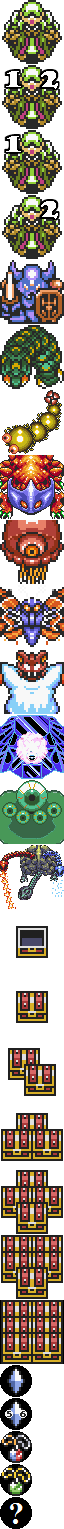
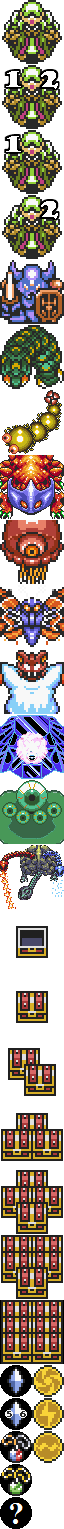
Add support for medallion for TR and MM.
- add the icons in the tracker
- use this info in the logic
- also fix the requierements for MM (needs boots or hookshot) and for TR
(need DW death mountain access)

Changed region(s): [[0.5, 0.8914, 1.0, 0.9836]]

diff --git a/js/script.js b/js/script.js
@@ -919,6 +919,18 @@ $(() => {
           ],
           type: 'bosses',
         };
+	if (i == 8 || i == 9)
+	{
+          this.items[`boss${i}medallion`] = {
+            values: [
+              'medallion-unknown',
+              'medallion-bombos',
+              'medallion-ether',
+              'medallion-quake',
+            ],
+            type: 'bosses',
+          };
+        }
         const dungeonChests = {
           values: [],
           type: 'bosses',
@@ -1002,7 +1014,7 @@ $(() => {
       }
       div.removeClass(item);
 
-      if (item.endsWith('reward') || item.endsWith('chest')) {
+      if (item.endsWith('reward') || item.endsWith('chest') || item.endsWith('medallion')) {
         div.addClass(item);
         div.addClass(itemState);
       } else if (itemState === 'none') {
@@ -1142,6 +1154,19 @@ $(() => {
           );
         case 'mire':
           return this.has('glove2') && this.has('flute');
+        case 'miredungeon':
+          const needed_medallion8 = this.safeGetItem('boss8medallion').substring(10);
+          return (
+            this.access('mire', allZones) &&
+            this.has('sword') &&
+            (
+              needed_medallion8 != 'unknown' && this.has(needed_medallion8) ||
+              this.has('bombos') &&
+              this.has('ether') &&
+              this.has('quake')
+            ) &&
+            this.has('moonpearl')
+          );
         case 'dwbumpexit':
           return this.state.mode === 'item' && this.has('cape') && this.access('dwwest', allZones);
         case 'dwdmisland':
@@ -1152,13 +1177,17 @@ $(() => {
             this.access('dwdmne')
           );
         case 'turtlerock':
+          const needed_medallion9 = this.safeGetItem('boss9medallion').substring(10);
           return (
-            this.access('dmne', allZones) &&
+            this.access('dwdmne', allZones) &&
             this.has('hammer') &&
             this.has('sword') &&
-            this.has('bombos') &&
-            this.has('ether') &&
-            this.has('quake') &&
+            (
+              needed_medallion9 != 'unknown' && this.has(needed_medallion9) ||
+              this.has('bombos') &&
+              this.has('ether') &&
+              this.has('quake')
+            ) &&
             this.has('moonpearl')
           );
         case 'dwdmledge':

diff --git a/js/caves.js b/js/caves.js
@@ -1537,11 +1537,7 @@ window.caves = {
         y: '81.22%',
         state(items) {
           if (!items.access('mire')) return '';
-          return items.has('sword') &&
-          items.has('bombos') &&
-          items.has('ether') &&
-          items.has('quake') &&
-          items.has('moonpearl')
+          return items.access('miredungeon')
             ? 'available'
             : 'visible';
         },
@@ -1558,15 +1554,8 @@ window.caves = {
         x: '93.86%',
         y: '7.47%',
         state(items) {
-          if (!items.access('dmne')) return '';
-
           if (
-            items.has('sword') &&
-            items.has('hammer') &&
-            items.has('bombos') &&
-            items.has('ether') &&
-            items.has('quake') &&
-            items.has('moonpearl')
+            items.access('turtlerock')
           ) { return 'available'; }
 
           return items.access('dwdmne') ? 'visible' : '';

diff --git a/js/item_randomizer.js b/js/item_randomizer.js
@@ -750,11 +750,7 @@ window.item_randomizer = {
         y: '81.22%',
         state(items) {
           if (!items.access('mire')) return '';
-          return items.has('sword') &&
-          items.has('bombos') &&
-          items.has('ether') &&
-          items.has('quake') &&
-          items.has('moonpearl')
+          return items.access('miredungeon') && (items.has('hookshot') || items.has('boots'))
             ? 'available'
             : 'visible';
         },

diff --git a/css/bosses.css b/css/bosses.css
@@ -110,3 +110,19 @@
   background-position: 0 100%;
   background-size: 200%;
 }
+.bosses.medallion-unknown {
+  background-position: 0 100%;
+  background-size: 200%;
+}
+.bosses.medallion-bombos {
+  background-position: 100% 91.182365%;
+  background-size: 200%;
+}
+.bosses.medallion-ether {
+  background-position: 100% 93.386774%;
+  background-size: 200%;
+}
+.bosses.medallion-quake {
+  background-position: 100% 95.591182%;
+  background-size: 200%;
+}

diff --git a/css/styles.css b/css/styles.css
@@ -400,6 +400,12 @@ footer {
   --item-scale-x: 0.5;
   --item-scale-y: 0.5;
 }
+.boss8medallion {
+  --item-x: 5.5;
+  --item-y: 5;
+  --item-scale-x: 0.5;
+  --item-scale-y: 0.5;
+}
 .boss8chest {
   --item-x: 5;
   --item-y: 6;
@@ -407,6 +413,12 @@ footer {
 .boss9 {
   --item-x: 6;
   --item-y: 5;
+}
+.boss9medallion {
+  --item-x: 6.5;
+  --item-y: 5;
+  --item-scale-x: 0.5;
+  --item-scale-y: 0.5;
 }
 .boss9reward {
   --item-x: 6.5;
